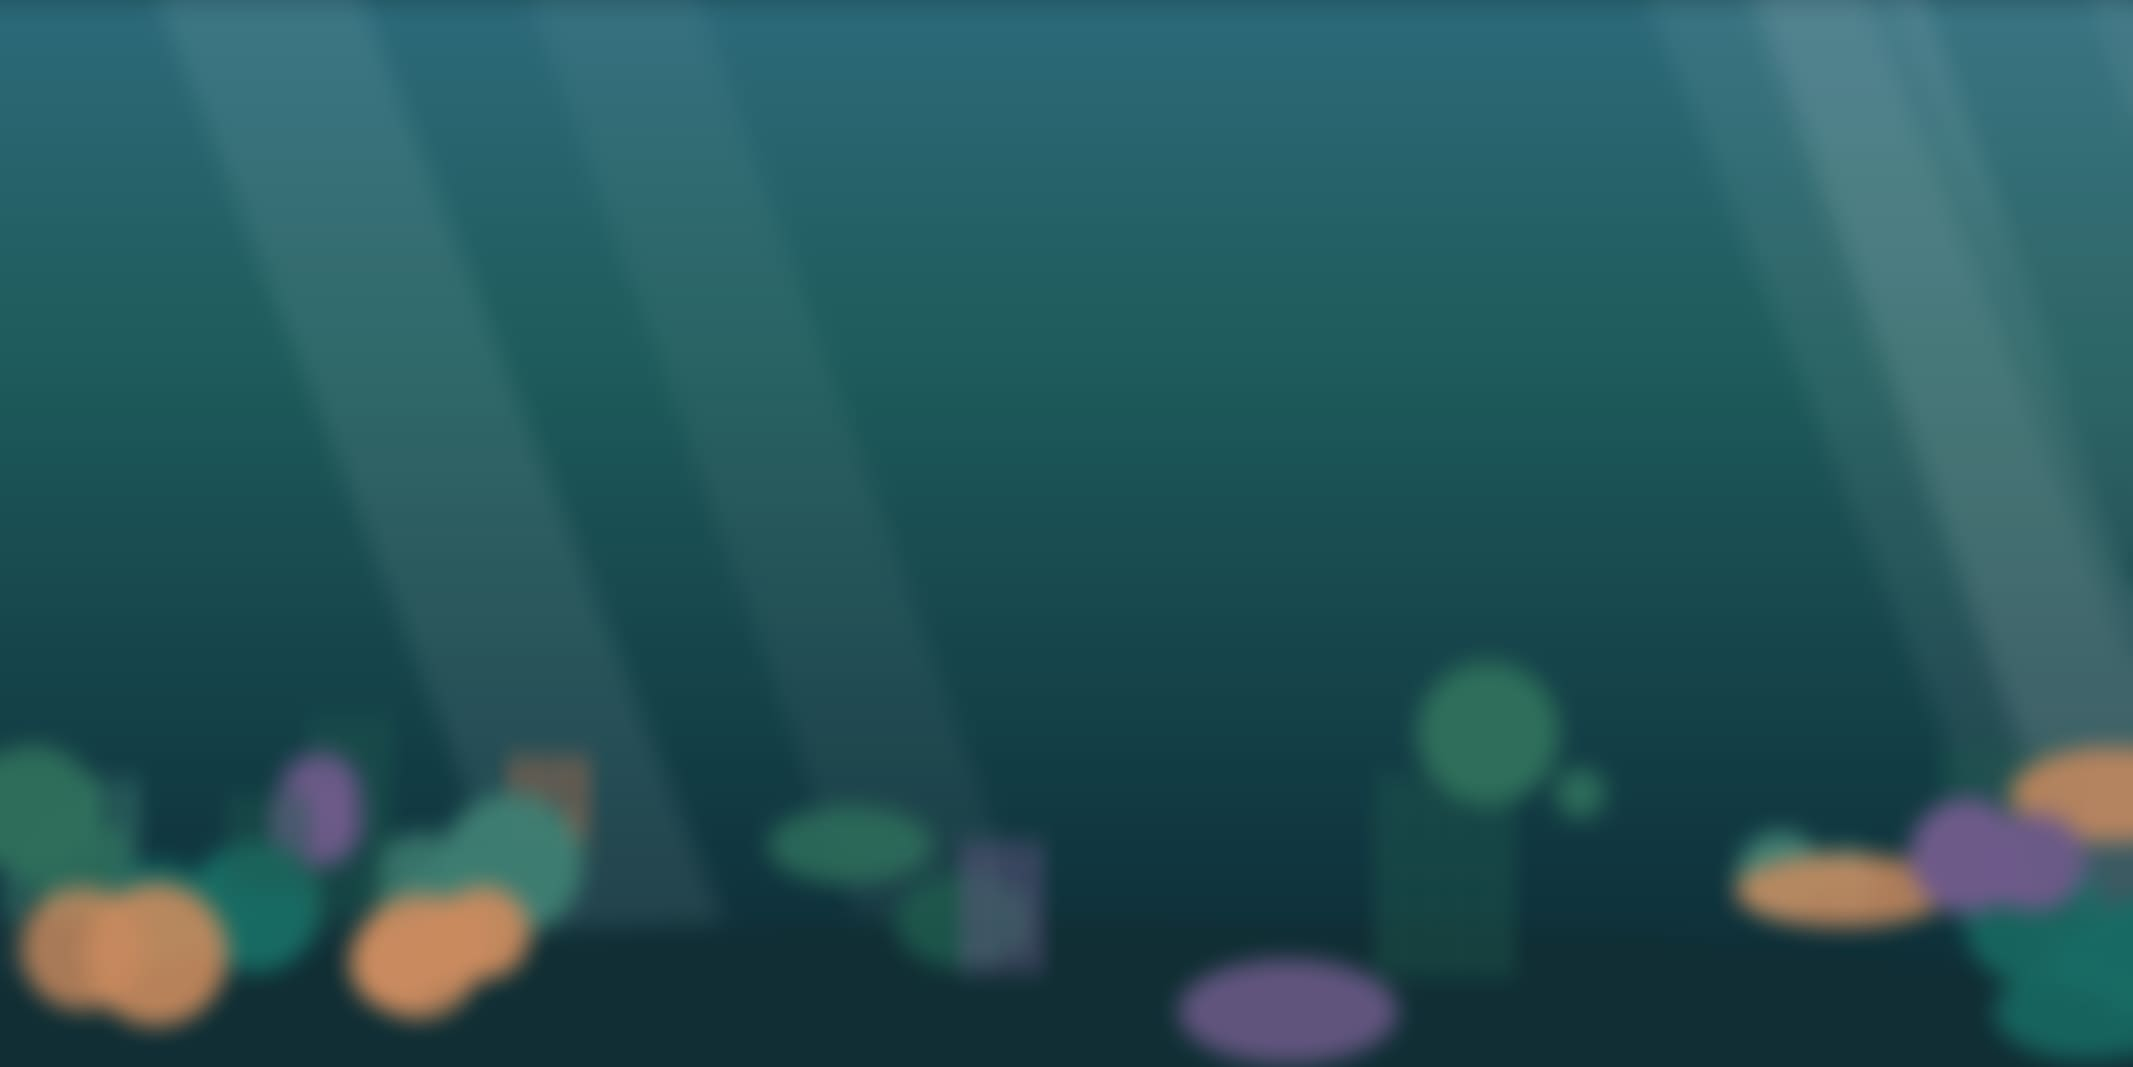
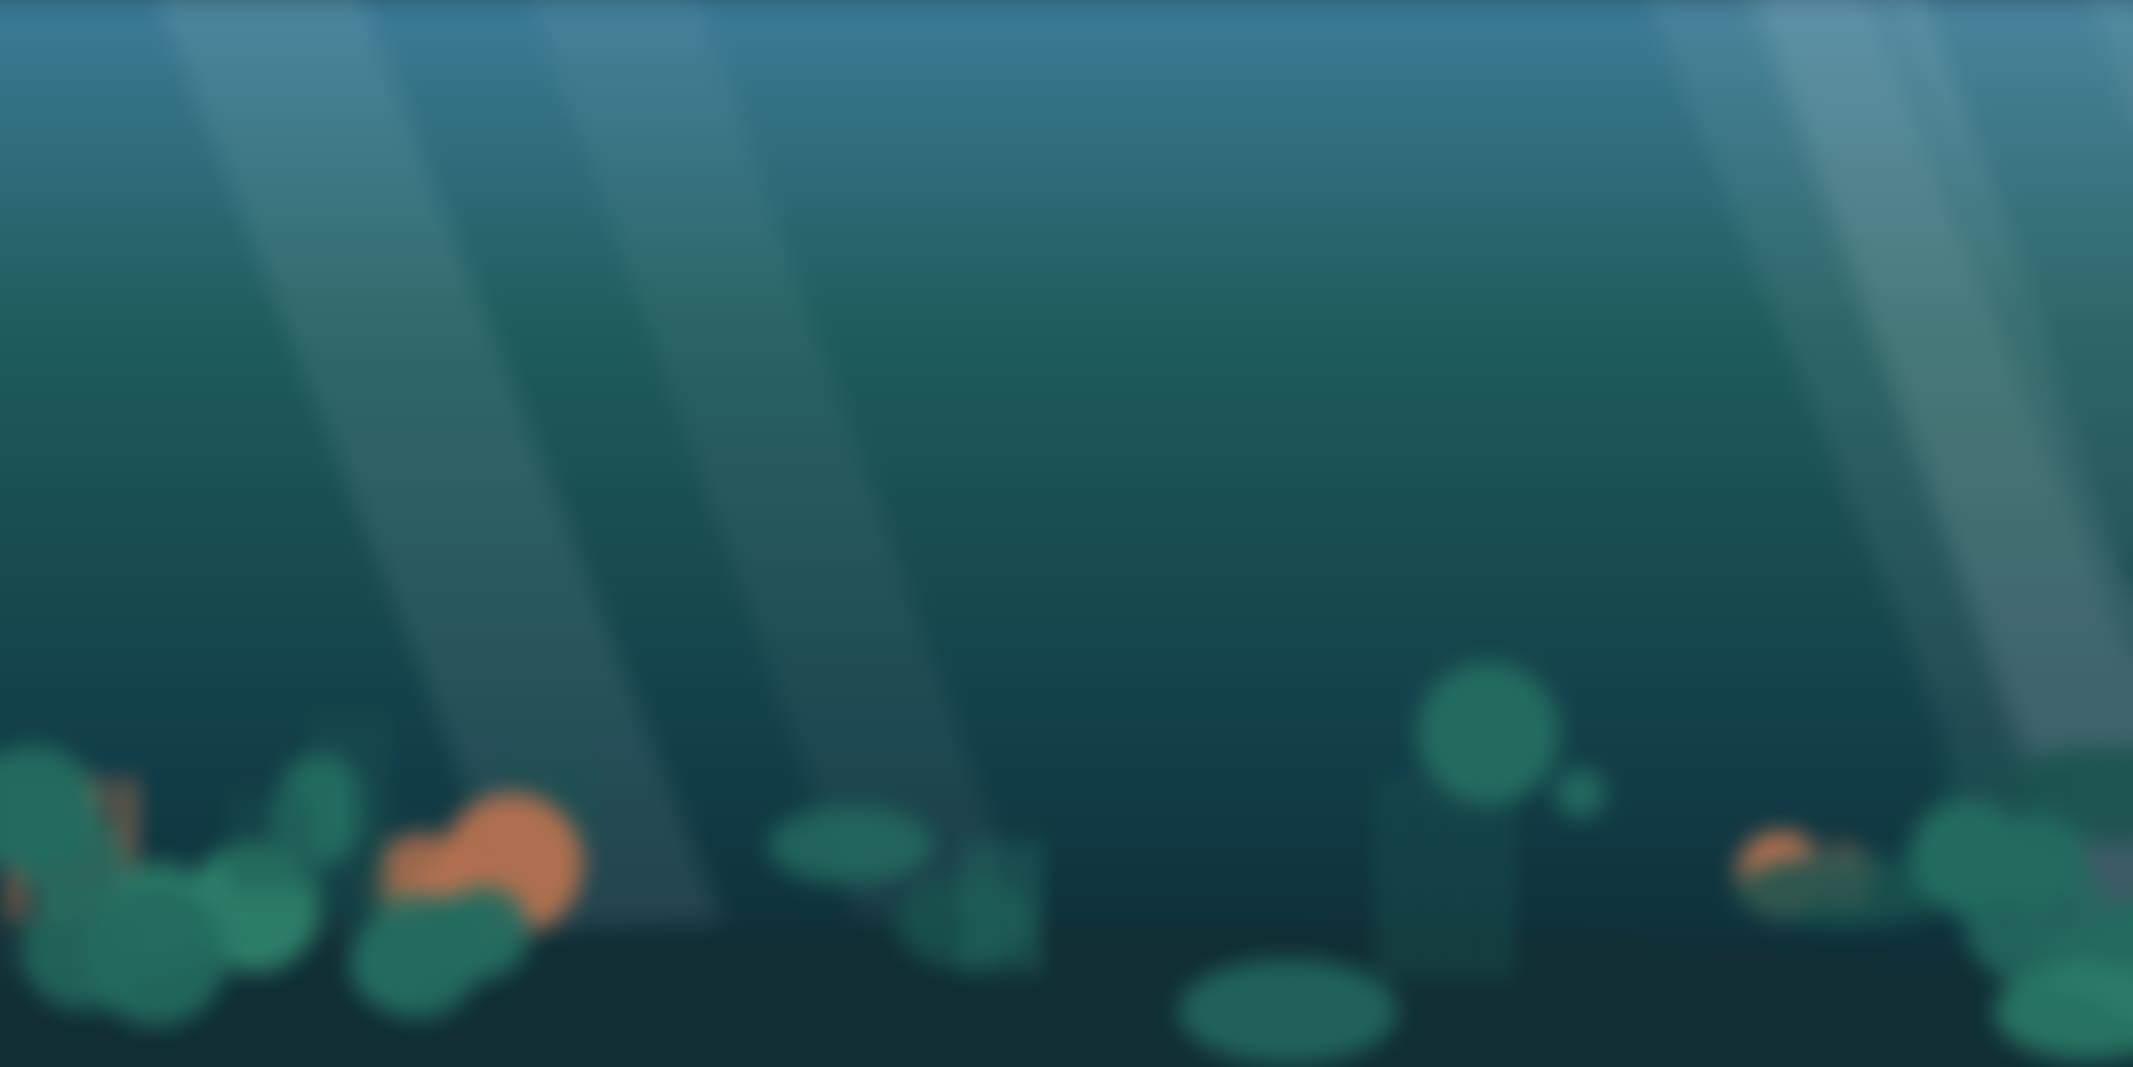
feat(game): backdrop spans the >2:1 border too; palette-exact placeholder
Use the same backdrop for the area beyond the play-field border: one image is
now painted across the WHOLE viewport (field + border), cover-fit + bottom-
anchored, so the border just reveals more of the same scene instead of the
procedural kelp-wall / seabed / sky. A soft inner vignette (drawFieldBoundary)
marks the play-field edge in place of the visible wall — the seal is still
clamped to the 2:1 field, so fairness is unchanged; only the visuals span wider.
Without a backdrop, the procedural border renders exactly as before.

Also: placeholder is now palette-EXACT and edge-matched — gradient stops equal
core/theme.js water tones (top #3C7C97 → #1E5B5B → #123E48 → bottom #0B2832 =
the CSS page background), corals use the kelp greens. README updated.

Verified in-browser at ultra-wide (2.39:1) and tall (2.33:1): the image fills
the border seamlessly, vignette marks the field, kelp sways on top, no errors.

diff --git a/public/games/seal-hunt-v1/render/scenery.js b/public/games/seal-hunt-v1/render/scenery.js
@@ -9,10 +9,12 @@ let seaGrad = null, topGrad = null, botGrad = null;
 
 // ——— Optional static backdrop image (e.g. an AI-generated foggy coral scene). Drop files at
 // assets/backdrop-landscape.{avif,webp,jpg} and assets/backdrop-portrait.{...} (see assets/README).
-// When present they replace the procedural sea gradient + seabed flora as the field's base layer;
-// the light shafts, depth tint and bubbles still draw on top for life. Absent → the procedural
-// scene renders unchanged (no behaviour change, no console errors). The image is decoded before
-// first use, so it never paints half-loaded — the gradient shows until it's ready (no pop-in).
+// When present, ONE image is painted across the whole viewport (play field AND the >2:1 border, so
+// the border just reveals more of the same scene); it replaces the procedural sea gradient, while
+// the light shafts, depth tint, bubbles and animated kelp still draw on top for life. A soft inner
+// vignette marks the field edge in place of the kelp-wall border. Absent → the procedural scene
+// renders unchanged (no behaviour change, no console errors). The image is decoded before first use,
+// so it never paints half-loaded — the gradient shows until it's ready (no pop-in).
 const BACKDROP_SOURCES = {
   landscape: ['assets/backdrop-landscape.avif', 'assets/backdrop-landscape.webp', 'assets/backdrop-landscape.jpg'],
   portrait: ['assets/backdrop-portrait.avif', 'assets/backdrop-portrait.webp', 'assets/backdrop-portrait.jpg'],
@@ -48,12 +50,44 @@ function activeBackdrop(world) {
   return b && b.img ? b : null;
 }
 
-// Cover-fit an image into the field, anchored to the BOTTOM (seabed stays on the floor at any
-// aspect; horizontal overflow is cropped evenly — fine for a soft, focal-point-free scene).
-function drawCover(ctx, b, w, h) {
-  const s = Math.max(w / b.w, h / b.h);
+export function isBackdropActive(world) { return !!activeBackdrop(world); }
+
+// Draw the active backdrop across the WHOLE viewport (screen coords), cover-fit + BOTTOM-anchored,
+// so it fills the play field AND the >2:1 border with ONE seamless image — the border just reveals
+// more of the same scene (no separate procedural border, no stretched strips). The seabed stays on
+// the floor at any aspect; overflow is cropped from the top (wide) or sides (tall) — fine for a
+// soft, focal-point-free scene. Returns true if it drew.
+export function drawBackdropFullscreen(ctx, view, world) {
+  const b = activeBackdrop(world);
+  if (!b) return false;
+  const W = view.dispW, H = view.dispH;
+  const s = Math.max(W / b.w, H / b.h);
   const dw = b.w * s, dh = b.h * s;
-  ctx.drawImage(b.img, (w - dw) / 2, h - dh, dw, dh);
+  ctx.drawImage(b.img, (W - dw) / 2, H - dh, dw, dh);
+  return true;
+}
+
+// Boundary cue for when the backdrop runs under the border: a soft inner shadow on the field edges
+// that have leftover. The seal is clamped to the field; this signals where play ends without a hard
+// visible wall (replaces the diegetic kelp-wall border in backdrop mode). Screen coords.
+export function drawFieldBoundary(ctx, view) {
+  const { ox, oy, dispW, dispH } = view;
+  const fx0 = ox, fy0 = oy, fx1 = dispW - ox, fy1 = dispH - oy;
+  const fh = fy1 - fy0, fw = fx1 - fx0;
+  const V = 26, SH = 'rgba(11,40,50,0.55)', CLR = 'rgba(11,40,50,0)';
+  let g;
+  if (ox > 1) { // side borders → shade left/right field edges
+    g = ctx.createLinearGradient(fx0, 0, fx0 + V, 0); g.addColorStop(0, SH); g.addColorStop(1, CLR);
+    ctx.fillStyle = g; ctx.fillRect(fx0, fy0, V, fh);
+    g = ctx.createLinearGradient(fx1, 0, fx1 - V, 0); g.addColorStop(0, SH); g.addColorStop(1, CLR);
+    ctx.fillStyle = g; ctx.fillRect(fx1 - V, fy0, V, fh);
+  }
+  if (oy > 1) { // top/bottom borders → shade top/bottom field edges
+    g = ctx.createLinearGradient(0, fy0, 0, fy0 + V); g.addColorStop(0, SH); g.addColorStop(1, CLR);
+    ctx.fillStyle = g; ctx.fillRect(fx0, fy0, fw, V);
+    g = ctx.createLinearGradient(0, fy1, 0, fy1 - V); g.addColorStop(0, SH); g.addColorStop(1, CLR);
+    ctx.fillStyle = g; ctx.fillRect(fx0, fy1 - V, fw, V);
+  }
 }
 
 function makeSeaGradient(ctx, world) {
@@ -124,11 +158,11 @@ export function initScenery(world, ctx) {
 }
 
 export function drawBackground(ctx, world, t, reducedMotion = false) {
-  // Base layer: the static backdrop image if one is loaded, else the procedural sea gradient.
+  // Base layer: when a backdrop image is active it's already painted across the whole viewport
+  // (field + border) by drawBackdropFullscreen, so here we fill the procedural sea gradient only
+  // when there's no backdrop. The light shafts / tint / bubbles / kelp below draw on top either way.
   const bd = activeBackdrop(world);
-  if (bd) {
-    drawCover(ctx, bd, world.w, world.h);
-  } else {
+  if (!bd) {
     ctx.fillStyle = seaGrad || PALETTE.water.mid;
     ctx.fillRect(0, 0, world.w, world.h);
   }

diff --git a/public/games/seal-hunt-v1/game.js b/public/games/seal-hunt-v1/game.js
@@ -2,7 +2,7 @@
 import { BAL, recomputeBalance, computeWorld } from './core/balance.js';
 import { ROUND_MS, stepSeal, spawnTick } from './core/sim.js';
 import { attachPointer, attachKeyboard } from './core/input.js';
-import { initScenery, drawBackground, initBorder, drawDeepBackdrop, drawBorderBack, drawBorderFront, initBackdrop } from './render/scenery.js';
+import { initScenery, drawBackground, initBorder, drawDeepBackdrop, drawBorderBack, drawBorderFront, initBackdrop, isBackdropActive, drawBackdropFullscreen, drawFieldBoundary } from './render/scenery.js';
 import { PREY, updatePrey, drawPrey } from './entities/prey.js';
 import { makeSeal } from './entities/seal.js';
 import { mountAfterPlay, startRound, relocalizeBoard } from './core/leaderboard.js';
@@ -388,24 +388,32 @@ function drawFrame(dt){
   const t = performance.now()/1000;
 
   const hasBorder = VIEW.ox > 0.5 || VIEW.oy > 0.5;
+  const bd = isBackdropActive(WORLD);
 
-  // Deep "edge of the cove" backdrop + the border layers BEHIND the field (seabed, sky +
-  // boats, side kelp walls). Replaces the flat floor fill; only visible on >2:1 screens.
+  // BEHIND the field. With a backdrop image: ONE image spans the whole viewport (field + border).
+  // Otherwise: the deep "edge of the cove" gradient + diegetic border layers (seabed, sky + boats,
+  // side kelp walls), visible only on >2:1 screens.
   CTX.save();
   CTX.setTransform(DPR, 0, 0, DPR, 0, 0);
-  drawDeepBackdrop(CTX, VIEW);
-  if (hasBorder) drawBorderBack(CTX, VIEW, WORLD, t, reduced);
+  if (bd) {
+    drawBackdropFullscreen(CTX, VIEW, WORLD);
+  } else {
+    drawDeepBackdrop(CTX, VIEW);
+    if (hasBorder) drawBorderBack(CTX, VIEW, WORLD, t, reduced);
+  }
   CTX.restore();
 
-  drawBackground(CTX, WORLD, t, reduced);
+  drawBackground(CTX, WORLD, t, reduced); // field overlays (rays/tint/bubbles/kelp); base if no bd
   drawPrey(CTX, WORLD);
   seal.draw(CTX);
 
-  // Border layers IN FRONT of the field: the wavy sea surface (top) + the edge vignette.
+  // IN FRONT of the field. Backdrop: a soft vignette marks the field edge. Otherwise: the wavy sea
+  // surface (top) + the kelp-wall edge vignette. Only when there's leftover border.
   if (hasBorder) {
     CTX.save();
     CTX.setTransform(DPR, 0, 0, DPR, 0, 0);
-    drawBorderFront(CTX, VIEW, WORLD, t, reduced);
+    if (bd) drawFieldBoundary(CTX, VIEW);
+    else drawBorderFront(CTX, VIEW, WORLD, t, reduced);
     CTX.restore();
   }
 

diff --git a/public/games/seal-hunt-v1/assets/README.md b/public/games/seal-hunt-v1/assets/README.md
@@ -14,16 +14,21 @@ assets/backdrop-landscape.{avif,webp,jpg}   used when the field is landscape/squ
 assets/backdrop-portrait.{avif,webp,jpg}    used in portrait (falls back to landscape if absent)
 ```
 
-- Drawn **cover-fit, anchored to the bottom** — keep the seabed/corals along the lower edge and
-  open, foggy water up top, so horizontal cropping on different aspect ratios is harmless.
+- Drawn **cover-fit across the whole viewport, anchored to the bottom** — keep the seabed/corals
+  along the lower edge and open, foggy water up top, so cropping on different aspect ratios is
+  harmless (overflow is trimmed from the top on wide screens, from the sides on tall ones).
+- **Top edge ≈ `#3C7C97`, bottom edge ≈ `#0B2832`** (the CSS page background) so it blends into the
+  game gradient and the dark page; the placeholder generator already does this exactly.
 - **Design it to sit BEHIND the animated kelp**: corals / rocks / fog, *no big foreground kelp*
   (the swaying kelp/grass is drawn on top by the game — bake-in kelp would double up).
 - **Match the water palette** in `core/theme.js` (teal surface `water.surface` → ink deep
   `water.floor`, kelp greens) so the on-top light shafts, bubbles and kelp blend seamlessly.
 - A **foggy / blurred** look is ideal: it compresses tiny and shows no artifacts when scaled.
 - The image is decoded before first use → no half-loaded flash; the gradient shows until ready.
-- Borders on >2:1 screens stay **procedural** (kelp walls / seabed / sky) — the backdrop is the
-  play field only.
+- On >2:1 screens the **same image fills the border too** (it spans the whole viewport, so the
+  border just reveals more of the scene); a soft inner vignette marks the play-field edge in place
+  of the kelp-wall border. (Without a backdrop, the procedural kelp-wall / seabed / sky border is
+  used as before.)
 
 The committed files are **placeholders** (see `tools/make-placeholder-backdrop.mjs`). Replace them
 with real art at the same names.
